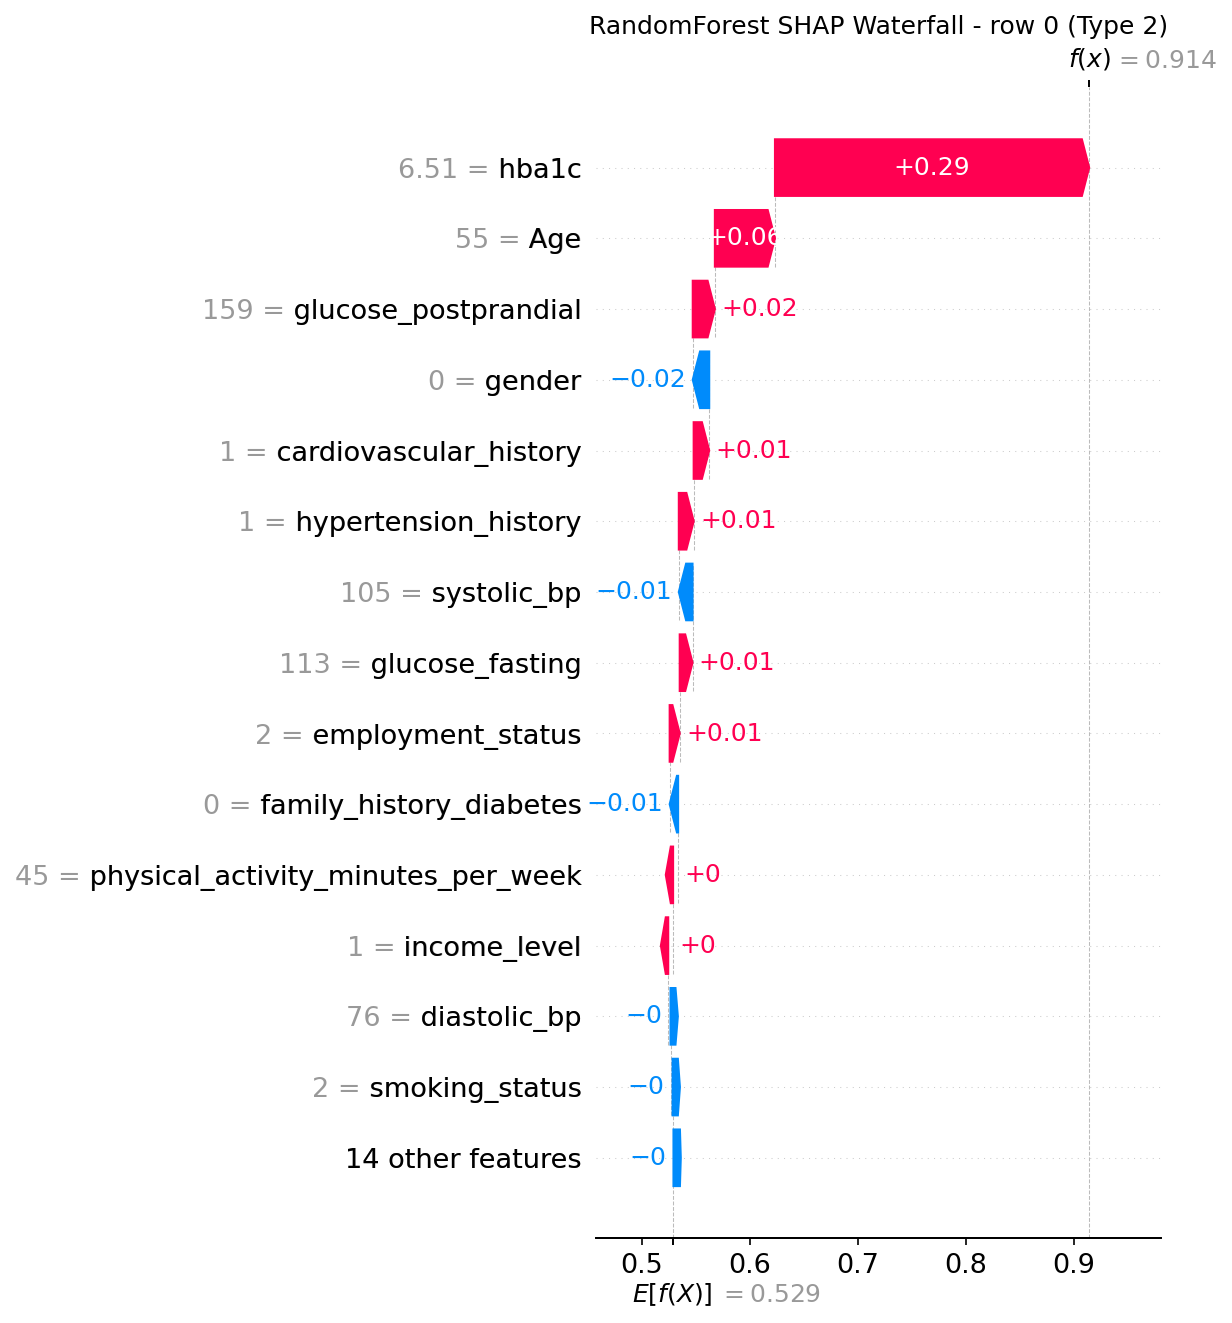
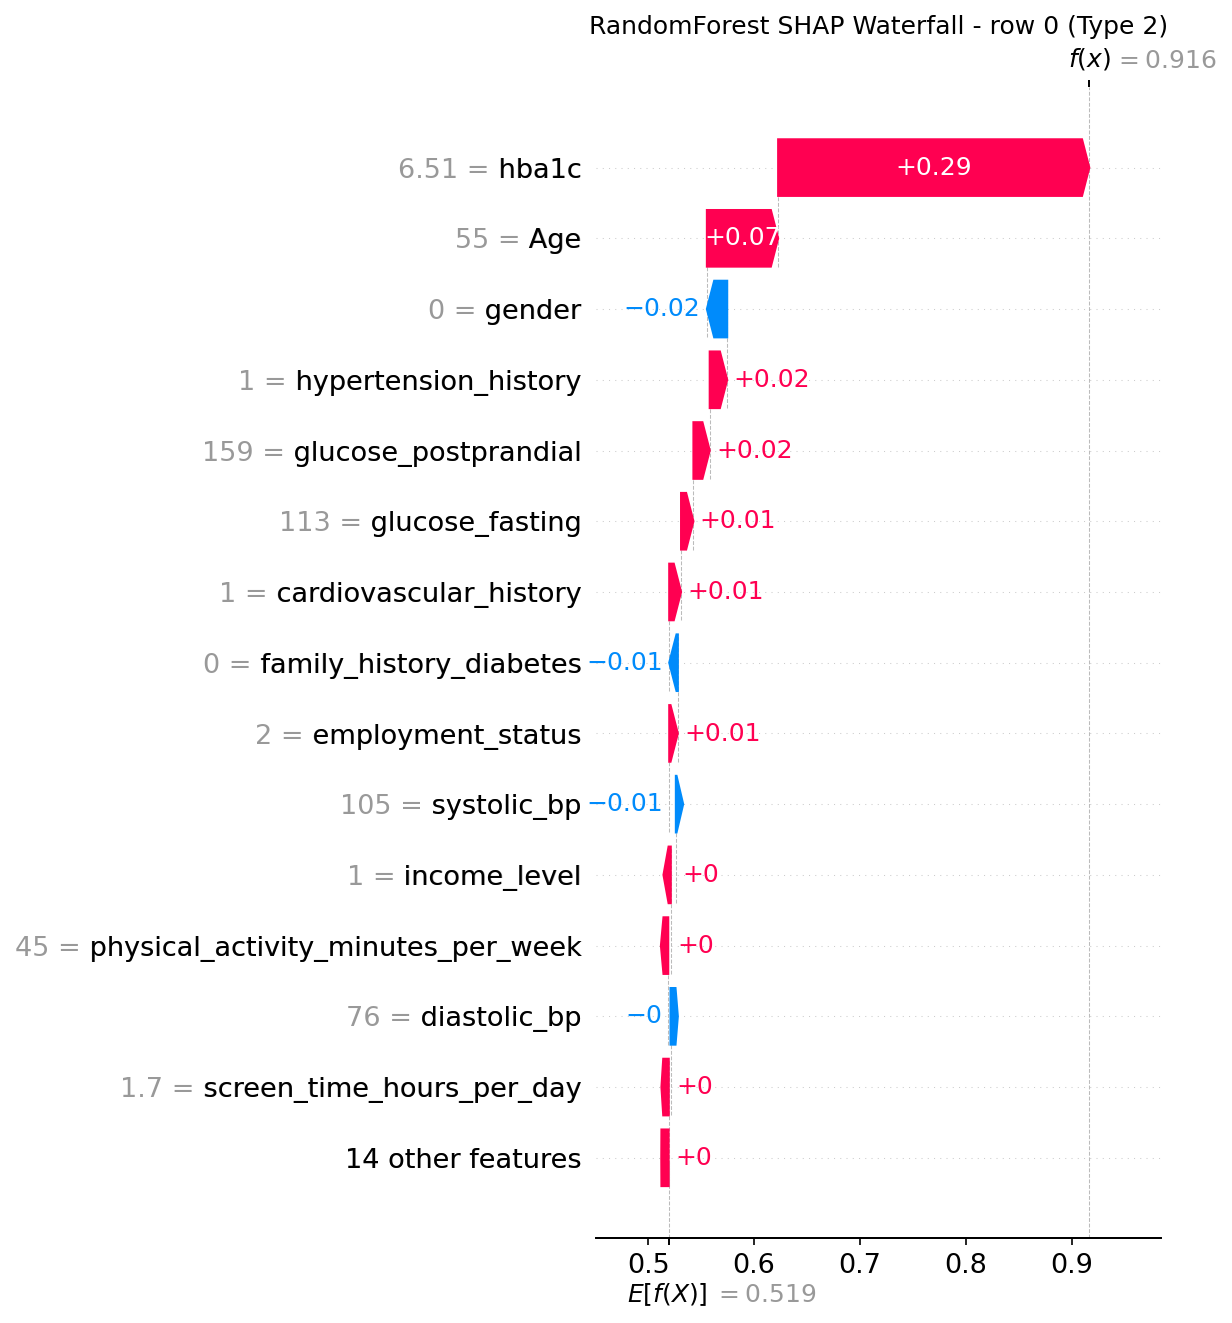
Updated Website to only allow XGBoost and added extra SHAP generations

diff --git a/src/web_app.py b/src/web_app.py
@@ -23,23 +23,9 @@ MODELS_DIR = ARTIFACTS_DIR / "models"
 DATA_DIR = PROJECT_ROOT / "data"
 ASSETS_DIR = PROJECT_ROOT / "assets"
 
-MODEL_FILES = {
-    "decision_tree": "decision_tree.pkl",
-    "random_forest": "random_forest.pkl",
-    "xgboost": "xgboost.pkl",
-}
-
-MODEL_LABELS = {
-    "decision_tree": "Decision Tree",
-    "random_forest": "Random Forest",
-    "xgboost": "XGBoost",
-}
-
-MODEL_ASSET_PREFIX = {
-    "decision_tree": "DecisionTree",
-    "random_forest": "RandomForest",
-    "xgboost": "XGBoost",
-}
+PREDICTION_MODEL_FILE = MODELS_DIR / "xgboost.pkl"
+MODEL_LABEL = "XGBoost"
+MODEL_ASSET_PREFIX = "XGBoost"
 
 FEATURE_LABELS = {
     "Age": "Age",
@@ -50,11 +36,6 @@ FEATURE_LABELS = {
     "hdl_cholesterol": "HDL Cholesterol",
     "ldl_cholesterol": "LDL Cholesterol",
 }
-
-MODEL_OPTIONS = [
-    {"label": MODEL_LABELS[key], "value": key}
-    for key in ("xgboost", "random_forest", "decision_tree")
-]
 
 PRIMARY_FEATURE_COUNT = 10
 PRIMARY_FEATURE_FALLBACK = [
@@ -76,21 +57,15 @@ def load_pickle(path: Path):
         return pickle.load(file_obj)
 
 
-def load_prediction_models():
-    loaded_models = {}
-    for model_key, filename in MODEL_FILES.items():
-        model_path = MODELS_DIR / filename
-        if model_path.exists():
-            loaded_models[model_key] = load_pickle(model_path)
-    if not loaded_models:
+def load_prediction_model():
+    if not PREDICTION_MODEL_FILE.exists():
         raise FileNotFoundError(
-            "No trained prediction models were found. Run src/train_models2.py first."
+            "Missing XGBoost model. Run src/train_models.py first."
         )
-    return loaded_models
+    return load_pickle(PREDICTION_MODEL_FILE)
 
 
-PREDICTION_MODELS = load_prediction_models()
-DEFAULT_MODEL_KEY = "xgboost" if "xgboost" in PREDICTION_MODELS else next(iter(PREDICTION_MODELS))
+PREDICTION_MODEL = load_prediction_model()
 
 target_encoder = load_pickle(ARTIFACTS_DIR / "target_encoder.pkl")
 feature_encoders = load_pickle(ARTIFACTS_DIR / "feature_encoders.pkl")
@@ -108,7 +83,7 @@ for column in train_feature_cols:
         train_fill_values[column] = float(X_train[column].mode().iloc[0])
 
 shap_background = X_train.sample(min(500, len(X_train)), random_state=42).copy()
-shap_explainers = {}
+shap_explainer = None
 cluster_baselines = X_train[
     [
         "physical_activity_minutes_per_week",
@@ -348,13 +323,14 @@ def resolve_base_value(base_values: np.ndarray, sample_index: int, class_index: 
     raise ValueError(f"Unsupported base value shape: {base_values.shape}")
 
 
-def get_shap_explainer(model_key: str):
-    if model_key not in shap_explainers:
-        shap_explainers[model_key] = shap.TreeExplainer(
-            PREDICTION_MODELS[model_key],
+def get_shap_explainer():
+    global shap_explainer
+    if shap_explainer is None:
+        shap_explainer = shap.TreeExplainer(
+            PREDICTION_MODEL,
             data=shap_background,
         )
-    return shap_explainers[model_key]
+    return shap_explainer
 
 
 def build_probability_figure(probabilities: np.ndarray, predicted_class: str) -> go.Figure:
@@ -391,12 +367,12 @@ def build_probability_figure(probabilities: np.ndarray, predicted_class: str) ->
     return figure
 
 
-def build_local_shap_outputs(model_key: str, patient_raw: pd.DataFrame, patient_encoded: pd.DataFrame):
-    model = PREDICTION_MODELS[model_key]
+def build_local_shap_outputs(patient_raw: pd.DataFrame, patient_encoded: pd.DataFrame):
+    model = PREDICTION_MODEL
     predicted_index = int(model.predict(patient_encoded)[0])
     predicted_class = target_encoder.inverse_transform([predicted_index])[0]
 
-    explainer = get_shap_explainer(model_key)
+    explainer = get_shap_explainer()
     shap_values, base_values = compute_shap_values(explainer, patient_encoded)
 
     if shap_values.ndim == 3:
@@ -514,7 +490,7 @@ cluster_profiles = load_or_build_cluster_profiles()
 def build_recommendations(cluster_id: int):
     if cluster_profiles is None or cluster_id not in cluster_profiles.index:
         return dbc.Alert(
-            "Cluster profiles are not available yet. Re-run src/train_models2.py to generate them.",
+            "Cluster profiles are not available yet. Re-run src/train_models.py to generate them.",
             color="warning",
         )
 
@@ -549,13 +525,15 @@ def build_recommendations(cluster_id: int):
     )
 
 
-def build_global_shap_children(model_key: str):
-    asset_prefix = MODEL_ASSET_PREFIX[model_key]
-    summary_file = ASSETS_DIR / f"{asset_prefix}_shap_summary.png"
-    bar_file = ASSETS_DIR / f"{asset_prefix}_shap_bar.png"
+def build_global_shap_children():
+    summary_file = ASSETS_DIR / f"{MODEL_ASSET_PREFIX}_shap_summary.png"
+    bar_file = ASSETS_DIR / f"{MODEL_ASSET_PREFIX}_shap_bar.png"
 
     if not summary_file.exists() or not bar_file.exists():
-        return html.Div()
+        return dbc.Alert(
+            "XGBoost SHAP assets are missing. Run src/shap_analysis.py to generate them.",
+            color="warning",
+        )
 
     return dbc.Row(
         [
@@ -619,13 +597,10 @@ app.layout = dbc.Container(
                                 dbc.Card(
                                     dbc.CardBody(
                                         [
-                                            html.H4("Prediction Settings", className="card-title"),
-                                            html.Label("Classification Model", className="fw-semibold mb-2"),
-                                            dcc.Dropdown(
-                                                id="model-select",
-                                                options=[option for option in MODEL_OPTIONS if option["value"] in PREDICTION_MODELS],
-                                                value=DEFAULT_MODEL_KEY,
-                                                clearable=False,
+                                            html.H4("Prediction Model", className="card-title"),
+                                            html.P(
+                                                "All diabetes-stage predictions and SHAP explanations in this app use the saved XGBoost classifier.",
+                                                className="mb-0",
                                             ),
                                         ]
                                     ),
@@ -677,10 +652,10 @@ app.layout = dbc.Container(
                         html.Div(className="mb-3"),
                         html.H4("Model Driver Analysis"),
                         html.P(
-                            "Global plots come from src/shap_analysis.py. The local chart updates from the most recent patient prediction.",
+                            "Global XGBoost plots come from src/shap_analysis.py. The local chart updates from the most recent patient prediction.",
                             className="text-muted mb-4",
                         ),
-                        html.Div(id="global-shap-output", className="mb-4"),
+                        html.Div(build_global_shap_children(), id="global-shap-output", className="mb-4"),
                         html.Div(id="local-shap-summary", className="mb-4"),
                         dcc.Graph(
                             id="local-shap-figure",
@@ -702,27 +677,15 @@ app.layout = dbc.Container(
     fluid=True,
     className="py-4",
 )
-
-
[email redacted](
-    Output("global-shap-output", "children"),
-    Input("model-select", "value"),
-)
-def update_global_shap_panel(model_key):
-    selected_model = model_key or DEFAULT_MODEL_KEY
-    return build_global_shap_children(selected_model)
-
-
 @app.callback(
     Output("prediction-output", "children"),
     Output("probability-figure", "figure"),
     Output("local-shap-summary", "children"),
     Output("local-shap-figure", "figure"),
     Input("predict-btn", "n_clicks"),
-    State("model-select", "value"),
     [State(f"input-{column}", "value") for column in FEATURE_COLS],
 )
-def predict_risk(n_clicks, model_key, *values):
+def predict_risk(n_clicks, *values):
     if not n_clicks:
         return (
             "",
@@ -731,13 +694,12 @@ def predict_risk(n_clicks, model_key, *values):
             build_empty_figure("Submit a risk prediction to see local SHAP drivers."),
         )
 
-    selected_model = model_key or DEFAULT_MODEL_KEY
     raw_inputs = dict(zip(FEATURE_COLS, values))
     patient_raw, patient_encoded, _, missing_columns = prepare_patient_features(raw_inputs)
     missing_primary = [column for column in missing_columns if column in PRIMARY_FEATURES]
     missing_secondary = [column for column in missing_columns if column in SECONDARY_FEATURES]
 
-    model = PREDICTION_MODELS[selected_model]
+    model = PREDICTION_MODEL
     predicted_index = int(model.predict(patient_encoded)[0])
     predicted_class = target_encoder.inverse_transform([predicted_index])[0]
 
@@ -749,7 +711,7 @@ def predict_risk(n_clicks, model_key, *values):
         dbc.CardBody(
             [
                 html.H4(f"Predicted Diabetes Stage: {predicted_class}", className="card-title"),
-                html.P(f"Model used: {MODEL_LABELS[selected_model]}"),
+                html.P(f"Model used: {MODEL_LABEL}"),
                 html.P(f"Prediction confidence: {confidence * 100:.1f}%"),
                 html.P(
                     f"Blank primary fields auto-filled from baseline: {len(missing_primary)} ({format_feature_list(missing_primary)})",
@@ -765,7 +727,7 @@ def predict_risk(n_clicks, model_key, *values):
     )
 
     probability_figure = build_probability_figure(aligned_probabilities, predicted_class)
-    _, shap_summary, shap_figure = build_local_shap_outputs(selected_model, patient_raw, patient_encoded)
+    _, shap_summary, shap_figure = build_local_shap_outputs(patient_raw, patient_encoded)
 
     return prediction_card, probability_figure, shap_summary, shap_figure
 

diff --git a/src/shap_analysis.py b/src/shap_analysis.py
@@ -1,15 +1,3 @@
-"""Generate SHAP outputs for the trained diabetes risk models.
-
-Pipeline prerequisite:
-1. src/prepare_data.py
-2. src/preprocess_data.py
-3. src/train_models2.py
-
-By default this script analyses the saved Random Forest model so the output
-filenames match the current Dash app's SHAP tab. Pass --model xgboost if you
-want SHAP outputs for the best-performing classifier from train_models2.py.
-"""
-
 from __future__ import annotations
 
 import argparse
@@ -48,7 +36,7 @@ def parse_args() -> argparse.Namespace:
     parser.add_argument(
         "--model",
         choices=sorted(MODEL_FILES),
-        default="random_forest",
+        default="xgboost",
         help="Trained model to explain.",
     )
     parser.add_argument(
@@ -105,7 +93,7 @@ def require_file(path: Path) -> Path:
     if not path.exists():
         raise FileNotFoundError(
             f"Missing required file: {path}. Run prepare_data.py, "
-            "preprocess_data.py, and train_models2.py first."
+            "preprocess_data.py, and train_models.py first."
         )
     return path
 

diff --git a/src/train_models.py b/src/train_models.py
@@ -313,20 +313,18 @@ def train_xgboost(X_train, X_test, y_train, y_test, target_encoder):
     print("=" * 60)
 
     xgb_model = xgb.XGBClassifier(
-        n_estimators=300,          # FIX: more rounds improve minority-class recall
+        n_estimators=300,          
         max_depth=6,
-        learning_rate=0.05,        # FIX: lower LR + more trees generalises better
-        subsample=0.8,             # FIX: row subsampling reduces overfitting on 90k rows
-        colsample_bytree=0.8,      # FIX: feature subsampling (≈22 of 28 cols per tree)
-        min_child_weight=5,        # FIX: prevents splits on very small minority groups
+        learning_rate=0.05,        
+        subsample=0.8,             
+        colsample_bytree=0.8,      
+        min_child_weight=5,        
         random_state=42,
         eval_metric='mlogloss',
         n_jobs=-1,
     )
 
-    # SMOTE already balanced the classes, so no sample_weight is needed here.
-    # Adding class_weight='balanced' on top of SMOTE would double-penalise the
-    # majority class and distort precision for all classes.
+
     xgb_model.fit(X_train, y_train)
 
     metrics = evaluate_classifier(
@@ -334,7 +332,7 @@ def train_xgboost(X_train, X_test, y_train, y_test, target_encoder):
         X_train, y_train,
     )
 
-    # FIX: use enumerate — same bug fix as Random Forest above
+
     feature_importance = pd.DataFrame({
         'feature':    X_train.columns,
         'importance': xgb_model.feature_importances_,